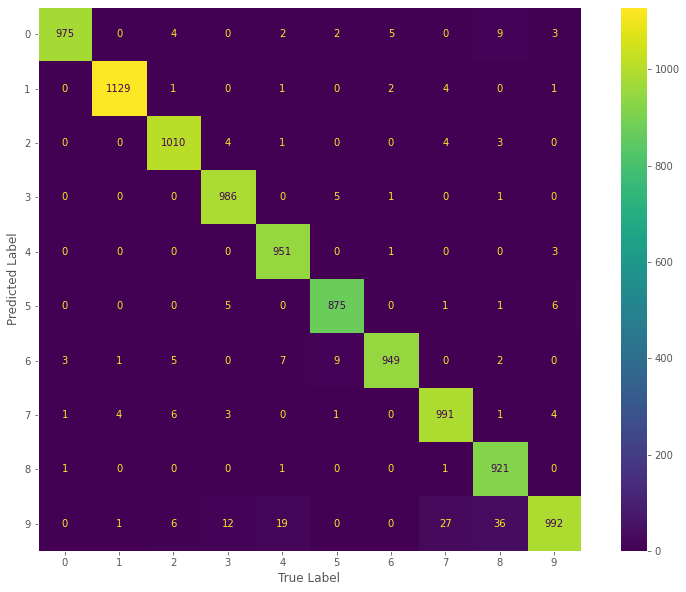
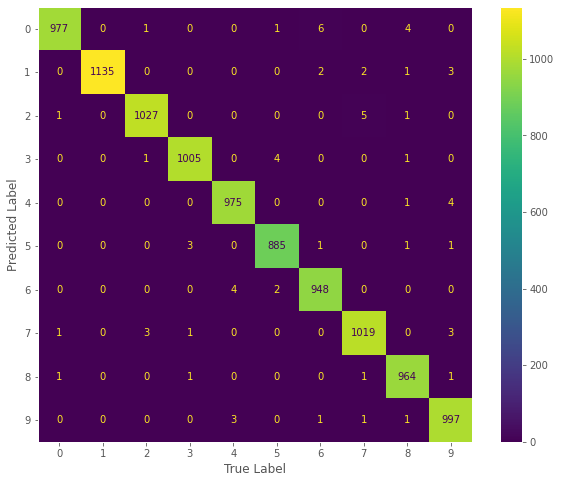
#23-project 2[LeNet]

diff --git a/projects/project_2/README.md b/projects/project_2/README.md
@@ -181,7 +181,7 @@ The configurations of the sweep to make the hyperparameter tuning to the Kakashi
 
 The parameters for the sweep were chosen randomly, and there were tested 10 different types of configuration to the KakashiNet architecture.
 
-The best configuration can be seen in the image below, which has __2__ convolutional layers with __16__ filters __5x5__ each. Then, we have the polling layer using __AveragePooling__, it has the number __0.01__ as the learning rate, __32__ as the batch size value. In the end, it has a flatten layer followed by three fully connected layers with 120, 84 and 10 neurons, respectively. This configuration achieved an accuracy of 99.47%.
+The best configuration can be seen in the image below, which has __2__ convolutional layers. Then, we have the polling layer using __AveragePooling__, it has the number __0.001__ as the learning rate, __64__ as the batch size value. In the end, it has a flatten layer followed by three fully connected layers with 120, 84 and 10 neurons, respectively. This configuration achieved an accuracy of 99.47%.
 
 ![image info](./img/kakashinet_background.png)
 
@@ -225,7 +225,7 @@ Then, we can observe, respectively, the accuracy and loss graph, the output of t
     <p align="center">Confusion Matrix</p>
 </p align="center">
 
-As observed in the confusion matrix, the model was more confused predicting the numbers 7 and 8 when it was actually the number 9.
+As observed in the confusion matrix, the model was more confused predicting the number 6 when it was actually the number 0.
 
 ## Reference
 [Ivanovitch's Repository](https://github.com/ivanovitchm/embedded.ai) 
